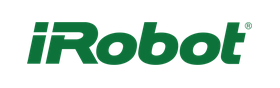
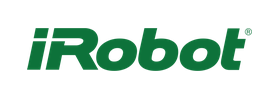
fix(home): tune three belt marks — pracuj.pl size, Belvedere counters, iRobot line
Three per-brand corrections the normaliser cannot make on its own, each a
new documented BRANDS option:

- pracuj.pl is a wordmark knocked out of a solid plate, so optical-mass
  normalisation counts the plate as ink and shrank it to 0.53, the set's
  strongest correction. `boost` (1.35) re-approximates the wordmark as
  the mass; it now renders at 0.71, in line with its neighbours.
- Belvedere's B, D and R counters (and the crown's enclosed whites) are
  border-unreachable plate the flood de-matte left opaque — 839 white
  pixels boxed on the sand band. `punch` keys the plate colour globally
  without the plate_ink repaint; the gold crown survives untouched.
- iRobot sat between two bottom-heavy marks and read high — ink centroid
  44.7 against Belvedere's 56.4. `dy` (6 canvas px) lands it at 50.7,
  between its neighbours.

Verified on the contact sheet, a neighbour strip at resting treatment,
and a plum-background render of the punched mark.

Changed region(s): [[0.0857, 0.25, 0.9143, 0.8182]]

diff --git a/scripts/client-logos/pipeline.py b/scripts/client-logos/pipeline.py
@@ -114,7 +114,16 @@ def gd(name):
 # fraction and is only for marks with no blank row anywhere — a badge whose
 # outline runs the full height — where it has to be set by eye and verified.
 # `tol` overrides CONNECT_TOL for a plate that needs a wider reach, and
-# `plate_ink` repaints a white knockout in its plate colour.
+# `plate_ink` repaints a white knockout in its plate colour. `boost` multiplies
+# the optical-mass correction (still clamped at contain-fit), for a mark whose
+# solid plate inflates its measured mass — belt pass only, verified by eye on
+# the contact sheet. `punch` keys the plate colour globally rather than by
+# border connectivity, without the `plate_ink` repaint: for positive artwork
+# whose enclosed glyph counters are background showing through, not ink, and
+# would otherwise ship as opaque plate-coloured boxes. `dy` nudges the placed
+# mark down by that many canvas pixels (half that at belt size): geometric
+# centring is blind to where a mark's ink actually sits, so a top-heavy or
+# bottom-heavy neighbour can make a centred mark read as misaligned.
 #
 # Source precedence is repository-first: the case-study assets were curated
 # during their import and are already de-matted and tightly cropped, so Drive
@@ -124,8 +133,9 @@ BRANDS = [
     # gDrive over the repository asset, which is the BELVEDERE CATERING
     # sub-brand lockup; the Drive copy is the approved restaurant mark. Drops
     # the "RESTAURACJA" strap line — unreadable at belt height — and keeps the
-    # crown with the wordmark.
-    ("belvedere", "Belvedere", gd("belvedere.png"), "belvedere", {"gap": 2}),
+    # crown with the wordmark. `punch` clears the white counters of B, D and R
+    # (and the crown's enclosed whites), which the border flood cannot reach.
+    ("belvedere", "Belvedere", gd("belvedere.png"), "belvedere", {"gap": 2, "punch": True}),
     ("burger-king", "Burger King", gd("Burger_King_2020.svg.png"), None, {}),
     ("dpd", "DPD", gd("DPD_logo_(2015).svg.webp"), None, {}),
     ("engie", "ENGIE", gd("ENGIE_logotype_2018.png"), "engie", {}),
@@ -135,7 +145,11 @@ BRANDS = [
     # bleeding in along the bottom edge, which survive de-matting because they
     # are real ink rather than plate. The Drive copy is the bare lockup.
     ("imid", "Instytut Matki i Dziecka", gd("imid.png"), "imid-cmv", {}),
-    ("irobot", "iRobot", repo("irobot"), "irobot", {}),
+    # Sits between two bottom-heavy marks (Belvedere's wordmark under its
+    # crown, Julius Meinl's roundel over its name) and geometric centring made
+    # it read high — ink centroid 44.7 against Belvedere's 56.4. The nudge
+    # lands it between its neighbours.
+    ("irobot", "iRobot", repo("irobot"), "irobot", {"dy": 6}),
     ("julius-meinl", "Julius Meinl", gd("Julius_Meinl_(2004).svg.png"), "julius-meinl", {}),
     ("jw-construction", "JW Construction", repo("jw-construction"), "jw-construction", {}),
     # Drops "Krajowe Centrum Przeciwdziałania Uzależnieniom".
@@ -154,7 +168,11 @@ BRANDS = [
     ("medicover", "Medicover", gd("medicover.png"), None, {}),
     # White wordmark on red, with a yellow sun the repaint leaves alone.
     ("polomarket", "POLOmarket", gd("Polomarket-logo.png"), "polomarket", {"plate_ink": True}),
-    ("pracuj-pl", "pracuj.pl", gd("pracuj.pl logo.webp"), "pracuj-pl", {}),
+    # The mark is a wordmark knocked out of a solid rounded plate, and the
+    # plate is real ink the normaliser counts — so the mass correction lands at
+    # 0.53, the set's strongest shrink, and the logo reads oddly small on the
+    # belt. `boost` re-approximates the wordmark, not the plate, as the mass.
+    ("pracuj-pl", "pracuj.pl", gd("pracuj.pl logo.webp"), "pracuj-pl", {"boost": 1.35}),
     ("produkty-cukiernicze-brzesc", "Brześć", repo("produkty-cukiernicze-brzesc"), "produkty-cukiernicze-brzesc", {}),
     # Drops the "Park Rozrywki" ribbon. The badge's white sticker outline inks
     # every row, so there is no seam to find — hence `keep`, cut just above the
@@ -343,13 +361,14 @@ def darken(im):
     return Image.fromarray(a.astype(np.uint8), "RGBA"), True
 
 
-def place(im, scale):
-    """Scale the mark and centre it on the fixed BOX_W x BOX_H canvas."""
+def place(im, scale, dy=0):
+    """Scale the mark and centre it on the fixed BOX_W x BOX_H canvas,
+    optionally nudged `dy` pixels down."""
     w = max(1, round(im.width * scale))
     h = max(1, round(im.height * scale))
     canvas = Image.new("RGBA", (BOX_W, BOX_H), (0, 0, 0, 0))
     resized = im.resize((w, h), Image.LANCZOS)
-    canvas.alpha_composite(resized, ((BOX_W - w) // 2, (BOX_H - h) // 2))
+    canvas.alpha_composite(resized, ((BOX_W - w) // 2, (BOX_H - h) // 2 + dy))
     return canvas
 
 
@@ -383,11 +402,14 @@ def build_belt():
     prepared = []
     for key, name, src, slug, opts in BRANDS:
         mark = load(src)
-        # Knockout marks key the plate globally — see `dematte`. `plate_ink` is
-        # the only route to that behaviour, and `CS_INHERIT_OPTS` deliberately
-        # does not carry it, so the case-study pass below is unreachable from here.
+        # Knockout marks key the plate globally — see `dematte`. Only
+        # `plate_ink` and `punch` reach that behaviour, and `CS_INHERIT_OPTS`
+        # deliberately carries neither, so the case-study pass below is
+        # unreachable from here (its `mono_ink` clears counters on its own).
         mark, cut, plate = dematte(
-            mark, opts.get("tol", CONNECT_TOL), global_key=opts.get("plate_ink", False)
+            mark,
+            opts.get("tol", CONNECT_TOL),
+            global_key=opts.get("plate_ink", False) or opts.get("punch", False),
         )
         if opts.get("plate_ink"):
             if plate is None:
@@ -402,7 +424,7 @@ def build_belt():
             mark = trim(crop_to_fraction(mark, opts["keep"]))
         mark, dark = darken(mark)
         fit = min(INNER_W / mark.width, INNER_H / mark.height)
-        prepared.append((key, name, slug, mark, fit, cut, dark))
+        prepared.append((key, name, slug, mark, fit, cut, dark, opts))
 
     # Pass 2 — normalise optical mass against the roster median. Contain-fit
     # equalises bounding boxes, not visual weight: a wide wordmark and a compact
@@ -410,13 +432,13 @@ def build_belt():
     # ink. Scaling by sqrt(median / own mass) evens that out; the clamp keeps
     # nothing larger than contain-fit (it would overflow the box) or smaller
     # than half of it (it would vanish).
-    masses = {key: ink_area(mark) * fit**2 for key, _, _, mark, fit, _, _ in prepared}
+    masses = {key: ink_area(mark) * fit**2 for key, _, _, mark, fit, _, _, _ in prepared}
     median = float(np.median(list(masses.values())))
 
     marks, rows = [], []
-    for key, name, slug, mark, fit, cut, dark in prepared:
-        correction = min(1.0, max(0.5, (median / masses[key]) ** 0.5))
-        placed = place(mark, fit * correction)
+    for key, name, slug, mark, fit, cut, dark, opts in prepared:
+        correction = min(1.0, max(0.5, (median / masses[key]) ** 0.5) * opts.get("boost", 1.0))
+        placed = place(mark, fit * correction, opts.get("dy", 0))
         placed.save(os.path.join(OUT, f"{key}.png"))
         marks.append((key, placed))
         rows.append((key, name, slug, mark.size, cut, dark, correction))
